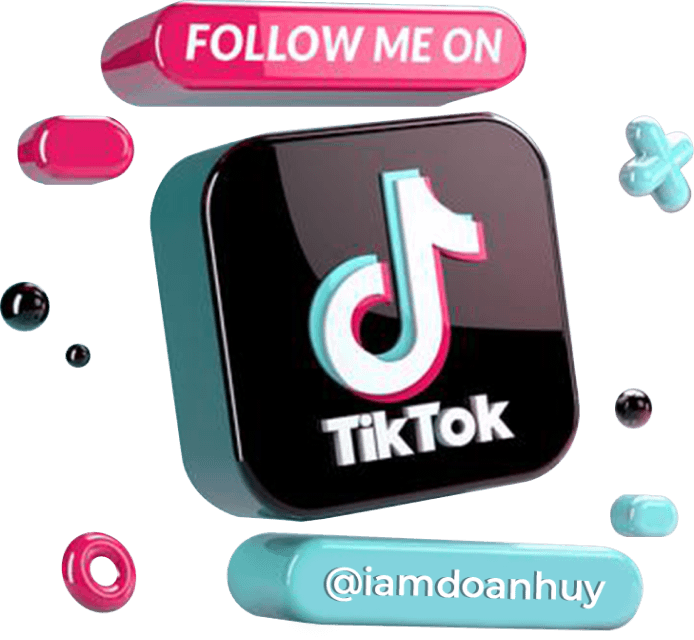
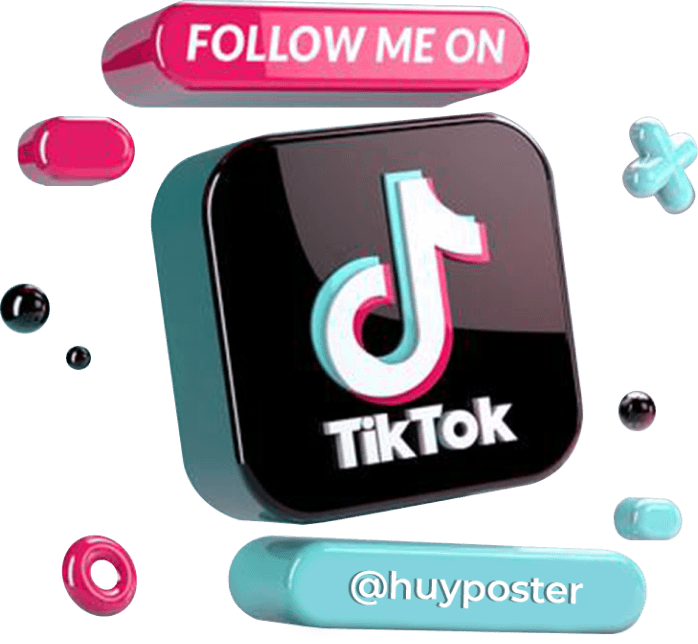
update content

Changed region(s): [[0.4539, 0.875, 0.8775, 0.9688]]

diff --git a/src/components/PageIndex/PageIndex.js b/src/components/PageIndex/PageIndex.js
@@ -41,18 +41,15 @@ function PageIndex(props) {
             <p>
               POSTER là một trong những ấn phẩm truyền thông phổ biến nhất. Từ
               phim ảnh, event, quảng bá sản phẩm,... POSTER đều được sử dụng
-              linh hoạt dù là online hay offline.
-            </p>
-            <p>
-              Photoshop là một trong những phần mềm giúp bạn có thể tiếp cận và
-              tạo ra được những sản phẩm poster từ cơ bản đến chuyên nghiệp một
-              cách nhanh nhất.
+              linh hoạt dù là online hay offline. Photoshop là một trong những
+              phần mềm giúp bạn có thể tiếp cận và tạo ra được những sản phẩm
+              poster từ cơ bản đến chuyên nghiệp một cách nhanh nhất.
             </p>
             <p>Dù bạn là người mới cũng không sao, hãy để Huy giúp bạn nhé !</p>
           </>
         }
         textLink="XEM CHI TIẾT"
-        to="/khoa-hoc"
+        to="/khoa-hoc-offline"
       />
       <Styled.SliderContainer>
         <Swiper
@@ -86,22 +83,23 @@ function PageIndex(props) {
         image={ImageYoutube}
         title={
           <>
-            IDEA
+            TỚ CÓ MỘT
             <br />
-            Speed video
+            KÊNH YOUTUBE
           </>
         }
         desc={
           <>
             <p>
-              Idea luôn đến từ những thứ gần gũi với chúng ta. Với anh em thì Mì
-              tôm và Nước ngọt là những thứ quá quen thuộc, không thể thiếu mỗi
-              khi chạy deadline.
+              Ở kênh youtube này, tớ sẽ đăng tải những nội dung xoay quanh về
+              thiết kế, designer và đặc biệt là design Poster.
             </p>
             <p>
-              Mời mọi người cùng xem quá trình mình tạo ra một chuỗi nhà máy sản
-              xuất Mì gói và Nước ngọt trong tương lai như thế nào nhé.
+              Mong muốn lớn nhất của Huy là tạo ra những nội dung video chất
+              lượng để phục vụ người xem. Chính vì thế mình luôn trau dồi kiến
+              thức, luyện tập thiết kế mỗi ngày.
             </p>
+            <p>Cùng đi đến kênh tớ nhé.</p>
           </>
         }
         imageWidth={600}
@@ -123,12 +121,11 @@ function PageIndex(props) {
           desc={
             <>
               <p>
-                Nhằm truyền cảm hứng và mang lại tiếng cười cho các anh em, vào
-                ngày 1/1/2021 tớ đã lập ra một kênh TikTok mang tên:{" "}
-                <em>@Iamdoanhuy</em>. Với Slogan “Yêu Đủ Thứ - Thích Design", tớ
-                muốn cho anh em thấy thiết kế Poster được áp dụng rộng rãi trên
-                mọi ngành nghề, mọi lĩnh vực trong cuộc sống này như thế nào,
-                anh em bấm vào xem nhá
+                Nhằm truyền cảm hứng cho các anh em yêu thích thiết kế, vào ngày
+                1/1/2021 tớ đã lập ra một kênh TikTok mang tên: <b><em>HUY POSTER</em></b>. Với
+                Slogan “ Yêu Đủ Thứ - Thích Design", tớ muốn cho anh em thấy
+                thiết kế Poster được áp dụng rộng rãi trên mọi ngành nghề, mọi
+                lĩnh vực trong cuộc sống này như thế nào, anh em bấm vào xem nhá.
               </p>
             </>
           }

diff --git a/src/components/Course/data.js b/src/components/Course/data.js
@@ -17,29 +17,28 @@ export const COURSE = [
     overlay: "rgba(40, 9, 64, 0.87)",
   },
   {
-    title: "NHÓM CAPSLOCK",
+    title: "NHÓM 3 CAPSLOCK",
     info: [
-      "Học 1 nhóm 5 người",
+      "Học nhóm 3 người",
       "Giáo trình linh động",
       "Khoá học khéo dài 16 giờ học",
       "Lịch học, địa điểm linh động phù hợp với nhóm",
     ],
     form: ["Offline trực tiếp tại TP HCM", "Online trực tiếp qua Zoom"],
-    pricing: "1.000.000",
+    pricing: "2.000.000",
     background: ImageBackground2,
     overlay: "rgba(4, 24, 41, 0.87)",
   },
   {
-    title: "LỚP CAPSLOCK CENTER",
+    title: "NHÓM 5 CAPSLOCK",
     info: [
-      "Lớp học từ 10-15 người",
-      "Khoá học khéo dài 8 buổi học",
-      "Lớp học di động, địa điểm thay đổi liên tục tiếp cận nhiều đối tượng học viên",
-      "Giáo trình dễ hiểu, chú trọng thực hành",
-      "Có trợ giảng hỗ trợ",
+      "Học nhóm 5 người",
+      "Giáo trình linh động",
+      "Khoá học khéo dài 16 giờ học",
+      "Lịch học, địa điểm linh động phù hợp với nhóm",
     ],
-    form: ["Offline trực tiếp tại TP HCM"],
-    // pricing: "Tạm ngưng tuyển sinh",
+    form: ["Offline trực tiếp tại TP HCM", "Online trực tiếp qua Zoom"],
+    pricing: "5.000.000",
     background: ImageBackground3,
     overlay: "rgba(102, 43, 0, 0.87)",
   },

diff --git a/src/components/Course/Course.js b/src/components/Course/Course.js
@@ -4,7 +4,7 @@ import { Parallax } from "react-parallax"
 import ImageHomeBg3 from "images/bg_khoa_hoc.jpg"
 import ImagePhotoshop from "images/photoshop_icon.png"
 import IconCheck from "images/check.svg"
-import { MESSENGER } from 'constants/urls'
+import { MESSENGER } from "constants/urls"
 import { COURSE } from "./data"
 import * as Styled from "./Course.styled"
 
@@ -56,20 +56,16 @@ function Course(props) {
               </div>
               <div>
                 {course.pricing && (
-                  <Styled.Pricing>{course.pricing}đ</Styled.Pricing>
+                  <Styled.Pricing>{course.pricing}đ/Học viên</Styled.Pricing>
                 )}
-                {index === 2 ? (
-                  <Styled.CTA disabled>TẠM NGỪNG TUYỂN SINH</Styled.CTA>
-                ) : (
-                  <Styled.CTA
-                    as="a"
-                    href={MESSENGER}
-                    target="_blank"
-                    rel="noopener noreferrer"
-                  >
-                    ĐĂNG KÍ NGAY
-                  </Styled.CTA>
-                )}
+                <Styled.CTA
+                  as="a"
+                  href={MESSENGER}
+                  target="_blank"
+                  rel="noopener noreferrer"
+                >
+                  ĐĂNG KÍ NGAY
+                </Styled.CTA>
               </div>
             </Styled.CourseItem>
           ))}

diff --git a/src/components/MenuMobile/MenuMobile.js b/src/components/MenuMobile/MenuMobile.js
@@ -26,13 +26,13 @@ function MenuMobile(props) {
             </Link>
           </Styled.MenuItem>
           <Styled.MenuItem>
-            <Link activeClassName="active" to="/khoa-hoc-online">
-              Khoá học Online
+            <Link activeClassName="active" to="/khoa-hoc-offline">
+              Khoá học Offline
             </Link>
           </Styled.MenuItem>
           <Styled.MenuItem>
-            <Link activeClassName="active" to="/khoa-hoc">
-              Khoá học
+            <Link activeClassName="active" to="/khoa-hoc-online">
+              Khoá học Online
             </Link>
           </Styled.MenuItem>
           <Styled.MenuItem>

diff --git a/src/components/Header/Header.js b/src/components/Header/Header.js
@@ -21,10 +21,10 @@ function Header(props) {
             <Link activeClassName="active" to="/">Trang chủ</Link>
           </li>
           <li>
-            <Link activeClassName="active" to="/khoa-hoc-online">Khoá học Online</Link>
+            <Link activeClassName="active" to="/khoa-hoc-offline">Khoá học Offline</Link>
           </li>
           <li>
-            <Link activeClassName="active" to="/khoa-hoc">Khoá học</Link>
+            <Link activeClassName="active" to="/khoa-hoc-online">Khoá học Online</Link>
           </li>
           <li>
             <Link activeClassName="active" to="/artwork">Artwork</Link>

diff --git a/src/components/Footer/Footer.js b/src/components/Footer/Footer.js
@@ -42,7 +42,7 @@ function Footer(props) {
           <Styled.FooterTitle>KHOÁ HỌC</Styled.FooterTitle>
           <Styled.FooterList>
             <Styled.FooterListItem>
-              <Link to="/khoa-hoc">Khoá học</Link>
+              <Link to="/khoa-hoc-offline">Khoá học Offline</Link>
             </Styled.FooterListItem>
             <Styled.FooterListItem>
               <Link to="/khoa-hoc-online">Khoá học Online</Link>

diff --git a/src/constants/urls.js b/src/constants/urls.js
@@ -1,6 +1,6 @@
 export const YOUTUBE_CHANNEL =
   "https://www.youtube.com/channel/UCitrOi2Xi4YbsYZ9PUfXuPg"
 
-export const TIKTOK_CHANNEL = "https://www.tiktok.com/@iamdoanhuy"
+export const TIKTOK_CHANNEL = "https://www.tiktok.com/@huyposter"
 
 export const MESSENGER = "https://www.messenger.com/t/doanhuyposter/"
